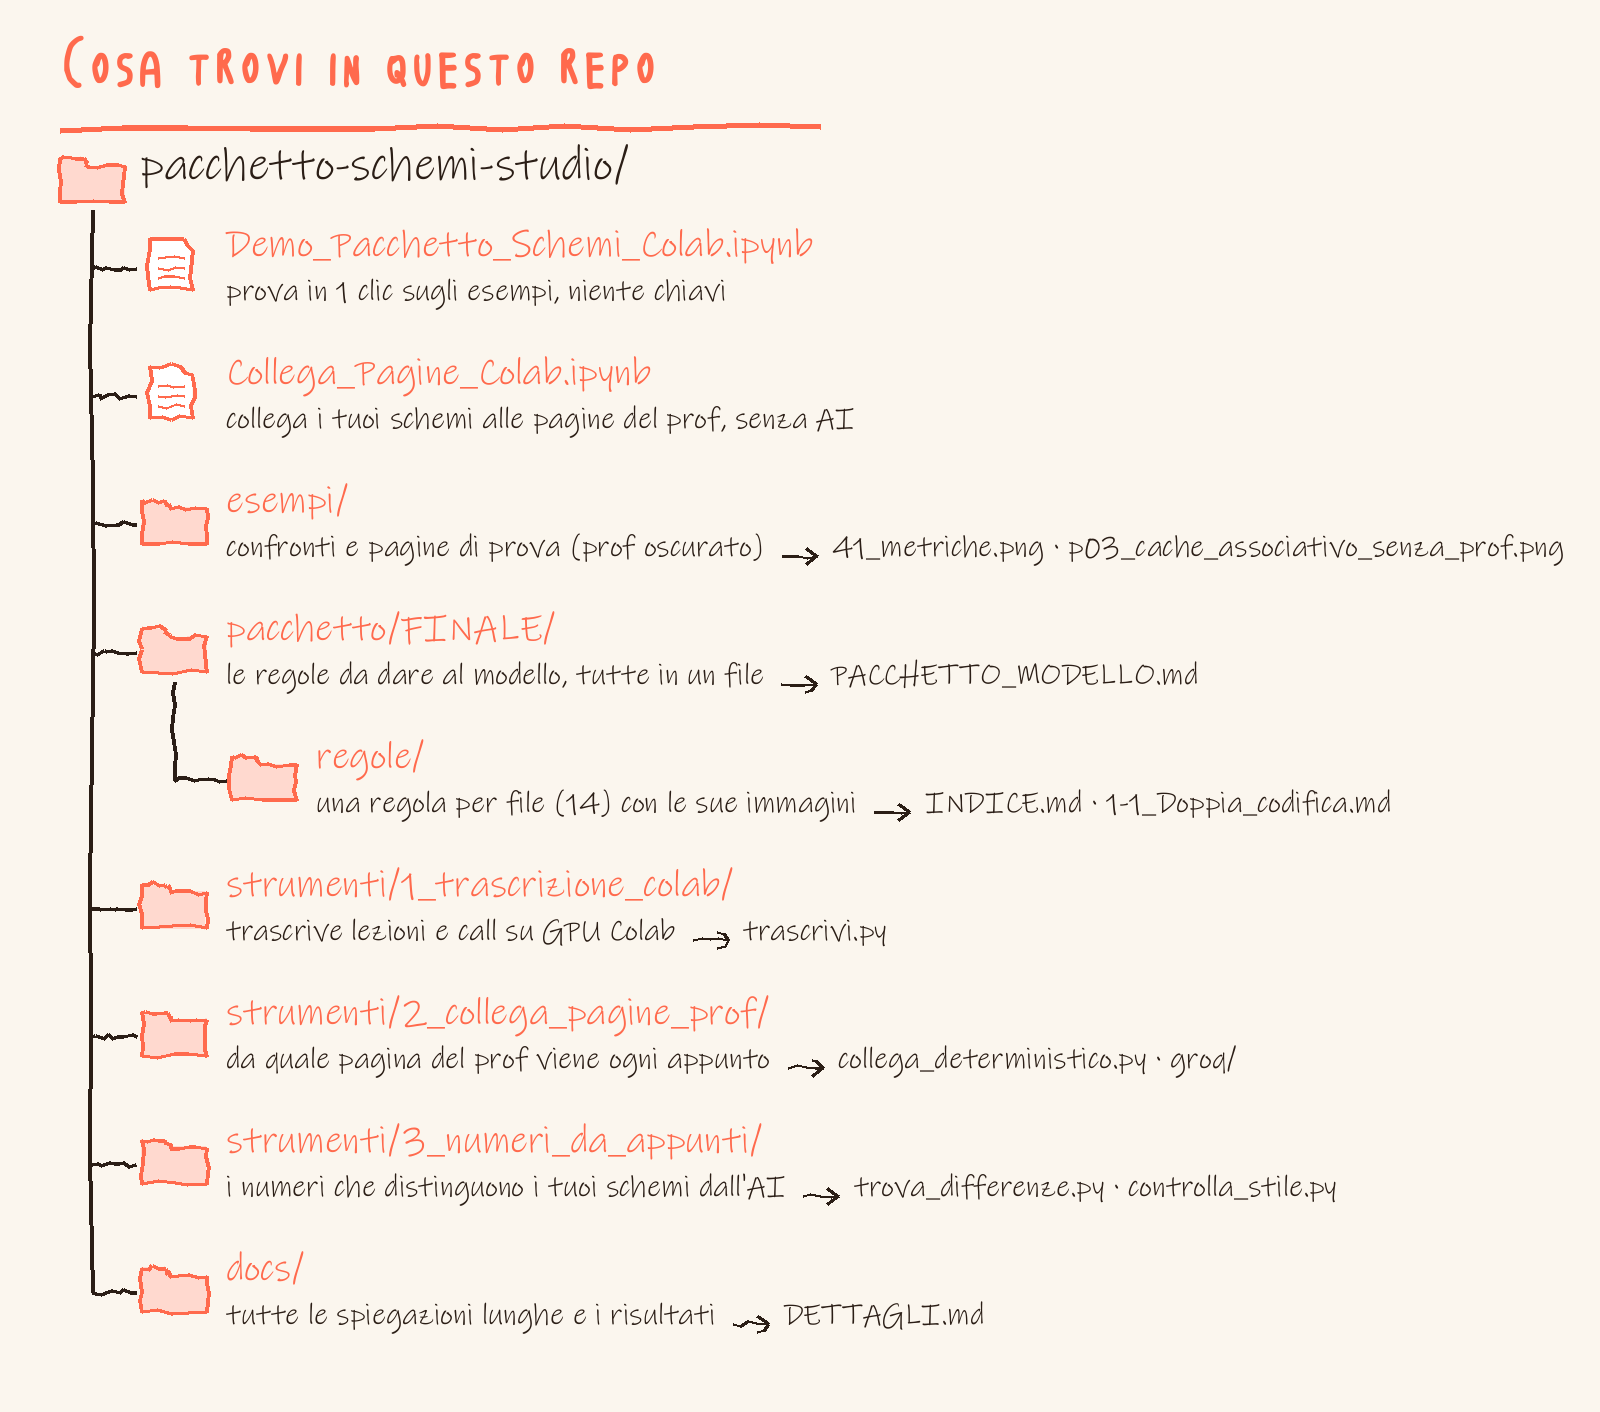
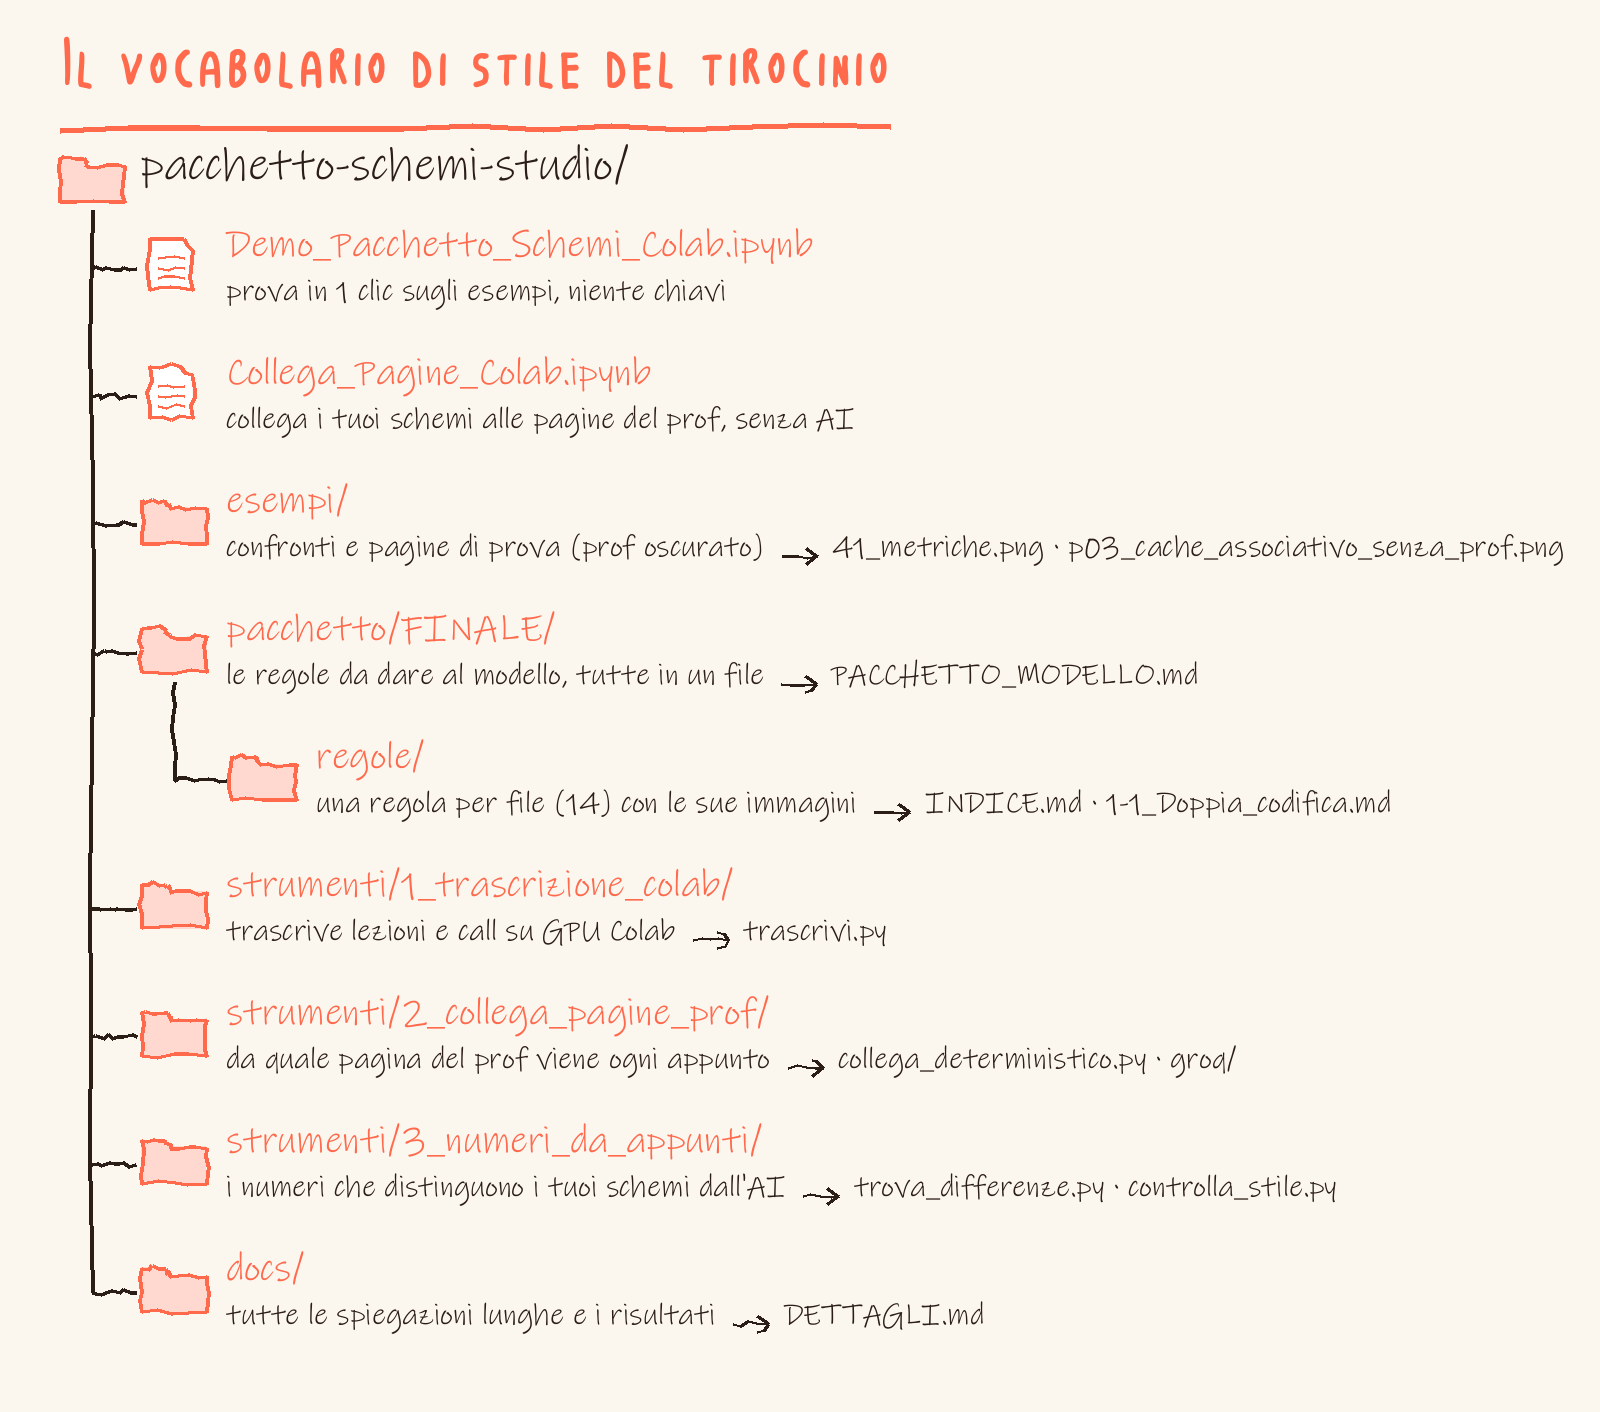
README, notebook e grafica parlano dell'idea del tirocinio
Titolo e prima frase del README, prima cella dei 2 Colab e titoli delle
due immagini spiegano lo scopo: vocabolario di regole dai miei schemi per
far generare a un modello schemi nuovi nel mio stile.

Changed region(s): [[0.0312, 0.0312, 0.5625, 0.0935]]

diff --git a/README.md b/README.md
@@ -1,4 +1,6 @@
-# Pacchetto schemi di studio
+# Vocabolario di stile per generare schemi di studio (tirocinio UniVR)
+
+Tirocinio di Informatica (UniVR): dai miei schemi di studio estraggo un **vocabolario di regole** (cosa fare, cosa non fare, stile, numeri misurabili) e lo do a un modello (Claude/GPT) perché generi schemi nuovi nel mio stile. Gli strumenti misurano quanto la pagina generata somiglia ai miei schemi e collegano ogni schema alla pagina del prof da cui nasce.
 
 [![Open In Colab](https://colab.research.google.com/assets/colab-badge.svg)](https://colab.research.google.com/github/03gilbe-design/pacchetto-schemi-studio/blob/main/Demo_Pacchetto_Schemi_Colab.ipynb)
 
